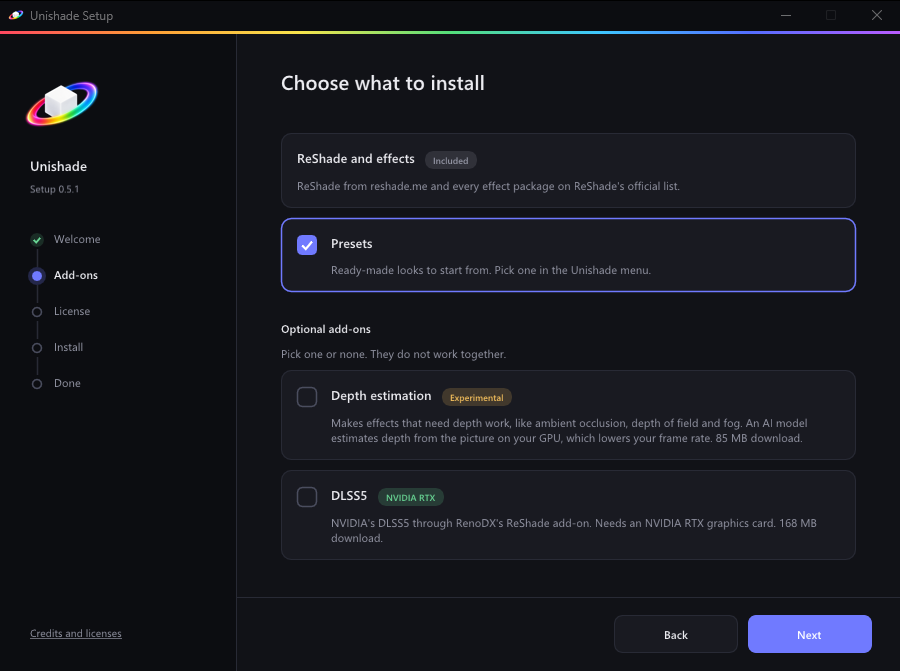
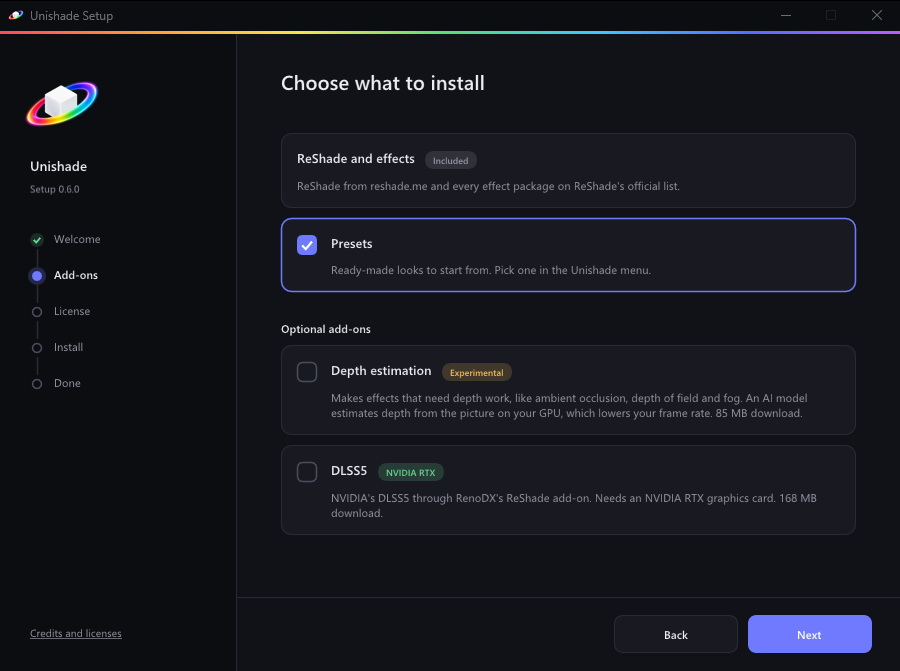
Update documentation for add-ons, installation, menu, and troubleshooting sections

diff --git a/website/src/content/docs/troubleshooting.md b/website/src/content/docs/troubleshooting.md
@@ -44,6 +44,8 @@ Windows only. Roblox replaces its folder when it updates, which deletes Unishade
 
 Effects cost frame rate. Turn off the heaviest ones or pick a lighter preset. On Windows, depth estimation costs some too.
 
+On Windows, **Settings > Performance**, in the menu or the Unishade window, can limit the frame rate and lower the effect resolution and depth detail. Each saved game keeps its own values.
+
 ## The log
 
 - Windows: **Open log** in the Unishade window opens `Unishade.log`. The previous run's log is `Unishade.old.log` in the same folder. Setup writes its own log to `%TEMP%\Unishade-Setup.log`.

diff --git a/website/src/content/docs/macos-linux.md b/website/src/content/docs/macos-linux.md
@@ -59,5 +59,6 @@ Screenshots go to `~/Pictures/Unishade`.
 ## What's different from Windows
 
 - Everything the menu shows happens in Unishade's own menu. ReShade's menu isn't there.
+- Preprocessor definitions, which some effects use for quality and feature options, are at the bottom of an effect's settings. A new value applies when you press **Enter**.
 - Depth estimation and DLSS5 are Windows only. Effects that need the game's depth see an empty depth buffer, as they would on Windows without the depth add-on.
 - A few effects use stencil, which is skipped. The **Status** tab lists effects that didn't compile.

diff --git a/website/src/content/docs/menu.md b/website/src/content/docs/menu.md
@@ -32,6 +32,8 @@ People share presets on [Discord](links:discord).
 
 The **Effects** tab lists every installed effect with a switch. Click an effect to change its settings, and search at the top to find one. Right-click a setting to reset it, or click **Reset all** to reset the effect.
 
+Effects that are on run in the order **Active** lists them. Drag one onto another to move it there.
+
 ![An effect's settings in the Effects tab](./images/menu-effects.jpg)
 
 **ReShade** at the bottom of the menu opens ReShade's own menu.

diff --git a/website/src/content/docs/install.md b/website/src/content/docs/install.md
@@ -18,7 +18,7 @@ Setup isn't code-signed yet, so the first time Windows may say **Windows protect
 
 ReShade and every official ReShade effect are always included. Keep **Presets** on for ready-made looks.
 
-Two add-ons are optional. Pick one or neither, since they don't work together:
+Two add-ons are optional:
 
 - **Depth estimation** makes ambient occlusion, depth of field and fog work. It costs some frame rate.
 - **DLSS5** needs an NVIDIA RTX card. See [DLSS5](/docs/add-ons/#dlss5) after installing.

diff --git a/website/src/content/docs/add-ons.md b/website/src/content/docs/add-ons.md
@@ -4,7 +4,7 @@ description: Depth estimation and DLSS5, and how to add, change or remove them.
 order: 4
 ---
 
-Setup offers two optional add-ons. Install one or neither, since they don't work together. To add, change or remove one, open **Unishade Setup** from the Start menu and choose **Update or change add-ons**.
+Setup offers two optional add-ons. To add, change or remove one, open **Unishade Setup** from the Start menu and choose **Update or change add-ons**.
 
 ## Depth estimation
 
